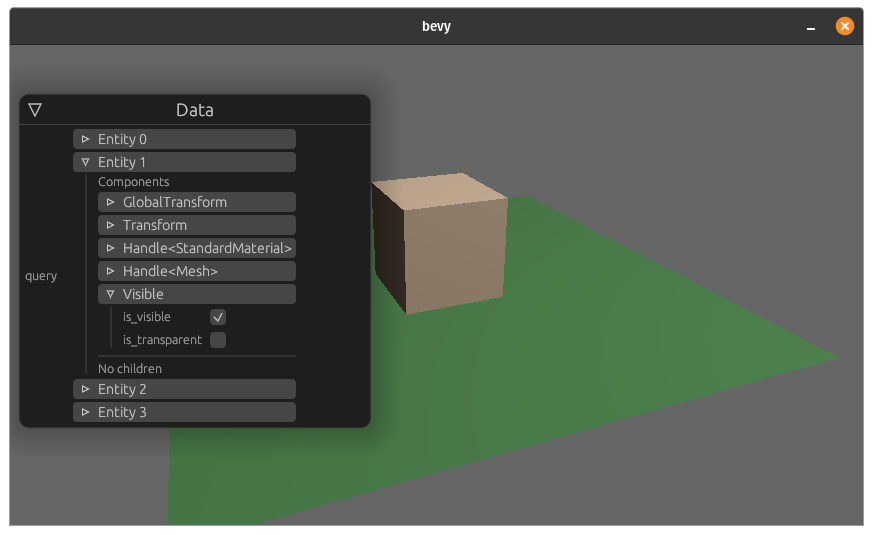
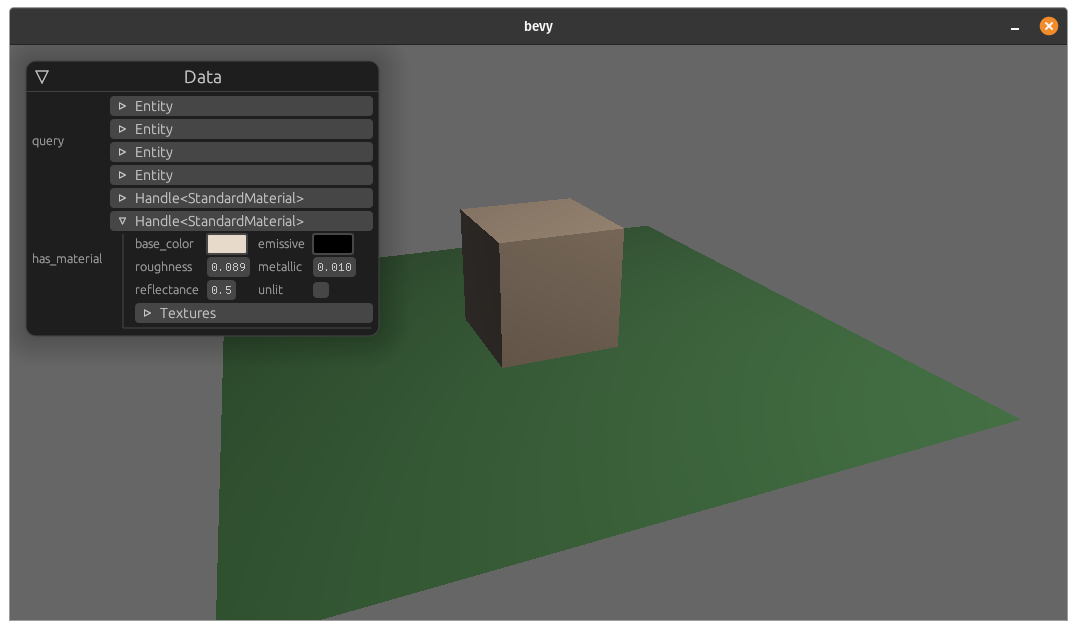
support arbitrary inspector queries

diff --git a/src/world_inspector/impls.rs b/src/world_inspector/impls.rs
@@ -1,12 +1,12 @@
 use super::{WorldInspectorParams, WorldUIContext};
-use crate::Inspectable;
+use crate::{utils, Inspectable};
 use bevy::{
-    ecs::query::{FilterFetch, WorldQuery},
+    ecs::query::{Fetch, FilterFetch, WorldQuery},
     prelude::*,
 };
 use bevy_egui::egui::CollapsingHeader;
-use pretty_type_name::pretty_type_name;
 use std::marker::PhantomData;
+use utils::error_label;
 
 impl Inspectable for World {
     type Attributes = WorldInspectorParams;
@@ -58,7 +58,11 @@ impl Inspectable for Entity {
     }
 }
 
-/// Queries for entities matching the filter `F` and displays their entity trees.
+/// Executes [Queries](bevy::ecs::system::Query) and displays the result.
+///
+/// You can use any types and filters which are allowed in regular bevy queries,
+/// however you may need to specify a `'static` lifetime since you can't elide them in structs.
+///
 /// ```rust,no_run
 /// use bevy::prelude::*;
 /// use bevy_inspector_egui::{Inspectable, InspectorPlugin};
@@ -68,8 +72,9 @@ impl Inspectable for Entity {
 ///
 /// #[derive(Inspectable, Default)]
 /// struct Queries {
-///   colliders: InspectorQuery<With<Collider>>,
-///   root_entities: InspectorQuery<Without<Parent>>,
+///   colliders: InspectorQuery<Entity, With<Collider>>,
+///   root_entities: InspectorQuery<Entity, Without<Parent>>,
+///   transforms: InspectorQuery<&'static mut Transform>,
 /// }
 ///
 /// fn main() {
@@ -79,9 +84,9 @@ impl Inspectable for Entity {
 ///         .run();
 /// }
 /// ```
-pub struct InspectorQuery<F>(PhantomData<F>);
+pub struct InspectorQuery<Q, F = ()>(PhantomData<(Q, F)>);
 
-impl<F> Default for InspectorQuery<F> {
+impl<Q, F> Default for InspectorQuery<Q, F> {
     fn default() -> Self {
         InspectorQuery(PhantomData)
     }
@@ -97,12 +102,15 @@ impl Default for InspectorQueryAttributes {
     }
 }
 
-impl<F> Inspectable for InspectorQuery<F>
+impl<'w, Q, F> Inspectable for InspectorQuery<Q, F>
 where
+    Q: WorldQuery,
     F: WorldQuery,
     F::Fetch: FilterFetch,
+    <<Q as WorldQuery>::Fetch as Fetch<'static>>::Item: Inspectable,
 {
-    type Attributes = InspectorQueryAttributes;
+    type Attributes =
+        <<<Q as WorldQuery>::Fetch as Fetch<'static>>::Item as Inspectable>::Attributes;
 
     fn ui(
         &mut self,
@@ -110,35 +118,25 @@ where
         options: Self::Attributes,
         context: &crate::Context,
     ) {
-        let world = expect_world!(ui, context, "InspectorQuery");
-        let mut params = world.get_resource_or_insert_with(WorldInspectorParams::default);
-        let params = std::mem::replace(&mut *params, WorldInspectorParams::empty());
+        let world = match context.world {
+            // Safety: the pointer provided in `Context::new` must be exclusive and valid.
+            Some(world) => unsafe { &mut *world },
+            None => {
+                return error_label(ui, format!("Query needs exclusive access to the world"));
+            }
+        };
 
-        let mut query_state = world.query_filtered::<Entity, F>();
-        let entities: Vec<Entity> = query_state.iter(world).collect();
+        ui.vertical(move |ui| {
+            let mut query_state = world.query_filtered::<Q, F>();
 
-        let ui_ctx = WorldUIContext::new(context.ui_ctx, world);
-        let entity_options = params.entity_options();
-
-        ui.vertical(|ui| {
-            if options.collapse {
-                let name = pretty_type_name::<F>();
+            for (i, mut value) in query_state.iter_mut(world).enumerate() {
+                let name = pretty_type_name::pretty_type_name::<Q>();
                 CollapsingHeader::new(name)
-                    .id_source(context.id())
+                    .id_source(context.id().with(i))
                     .show(ui, |ui| {
-                        for entity in entities {
-                            ui_ctx.entity_ui(ui, entity, &params, context.id(), &entity_options);
-                            ui.end_row();
-                        }
+                        value.ui(ui, options.clone(), &context.with_id(i as u64));
                     });
-            } else {
-                for entity in entities {
-                    ui_ctx.entity_ui(ui, entity, &params, context.id(), &entity_options);
-                }
             }
         });
-        drop(ui_ctx);
-
-        *world.get_resource_mut::<WorldInspectorParams>().unwrap() = params;
     }
 }

diff --git a/src/impls/list.rs b/src/impls/list.rs
@@ -62,17 +62,35 @@ impl<T: Inspectable, const N: usize> Inspectable for [T; N] {
 macro_rules! impl_for_tuple {
     ( $($ty:ident : $i:tt),* ) => {
         #[allow(unused_variables, non_snake_case)]
-        impl<$($ty: Inspectable),*> Inspectable for ($($ty,)*) {
+        impl<$($ty: Inspectable + 'static),*> Inspectable for ($($ty,)*) {
             type Attributes = ($(<$ty as Inspectable>::Attributes,)*);
 
             fn ui(&mut self, ui: &mut egui::Ui, options: Self::Attributes, context: &Context) {
-                ui.horizontal(|ui| {
+                #[allow(unused_mut)]
+                let mut inline = true;
+                $(inline &= should_display_inline::<$ty>();)*
+
+
+                if inline {
+                    ui.horizontal(|ui| {
+                        let ($($ty,)*) = options;
+                        ui.label("(");
+                        $(self.$i.ui(ui, $ty, &context.with_id($i));)*
+                        ui.label(")");
+                    });
+                } else {
                     let ($($ty,)*) = options;
 
-                    ui.label("(");
-                    $(self.$i.ui(ui, $ty, &context.with_id($i));)*
-                    ui.label(")");
-                });
+                    ui.vertical(|ui| {
+                        $(
+                            if $i != 0 {
+                                ui.separator();
+                            }
+                            self.$i.ui(ui, $ty, &context.with_id($i));
+                        )*
+                    });
+                }
+
             }
 
             fn setup(app: &mut AppBuilder) {
@@ -80,6 +98,21 @@ macro_rules! impl_for_tuple {
             }
         }
     };
+}
+
+macro_rules! matches_ty {
+    ($ty:ty, $($types:ty)|+) => {{
+        let type_id = std::any::TypeId::of::<$ty>();
+        $(
+            type_id == std::any::TypeId::of::<$types>()
+        )||*
+    }};
+}
+fn should_display_inline<T: 'static>() -> bool {
+    matches_ty!(
+        T,
+        i8 | i16 | i32 | i64 | isize | u8 | u16 | u32 | u64 | usize | char | bool | String | &'static str | f32 | f64 | &'static str
+    )
 }
 
 impl_for_tuple!();

diff --git a/src/world_inspector/mod.rs b/src/world_inspector/mod.rs
@@ -178,6 +178,7 @@ impl<'a> WorldUIContext<'a> {
             entity,
             entity_location,
             params,
+            id,
         );
         self.component_kind_ui(
             ui,
@@ -186,6 +187,7 @@ impl<'a> WorldUIContext<'a> {
             entity,
             entity_location,
             params,
+            id,
         );
 
         ui.separator();
@@ -215,6 +217,7 @@ impl<'a> WorldUIContext<'a> {
         entity: Entity,
         entity_location: EntityLocation,
         params: &WorldInspectorParams,
+        id: egui::Id,
     ) {
         if !components.is_empty() {
             ui.label(title);
@@ -227,7 +230,15 @@ impl<'a> WorldUIContext<'a> {
             let iter = sort_iter_if(iter, params.sort_components, |a, b| a.0.cmp(&b.0));
 
             for (name, component_info) in iter {
-                self.component_ui(ui, name, entity, entity_location, component_info, params);
+                self.component_ui(
+                    ui,
+                    name,
+                    entity,
+                    entity_location,
+                    component_info,
+                    params,
+                    id,
+                );
             }
         }
     }
@@ -240,6 +251,7 @@ impl<'a> WorldUIContext<'a> {
         entity_location: EntityLocation,
         component_info: &ComponentInfo,
         params: &WorldInspectorParams,
+        id: egui::Id,
     ) {
         let type_id = match component_info.type_id() {
             Some(id) => id,
@@ -258,7 +270,7 @@ impl<'a> WorldUIContext<'a> {
         let type_registry = &*type_registry.internal.read();
 
         CollapsingHeader::new(name)
-            .id_source(component_info.id())
+            .id_source(id.with(component_info.id()))
             .show(ui, |ui| {
                 if params.is_read_only(type_id) {
                     ui.set_enabled(false);

diff --git a/src/impls/bevy_impls.rs b/src/impls/bevy_impls.rs
@@ -351,3 +351,19 @@ impl Inspectable for Mesh {
         });
     }
 }
+
+impl Inspectable for Name {
+    type Attributes = ();
+
+    fn ui(&mut self, ui: &mut egui::Ui, _: Self::Attributes, _: &Context) {
+        ui.label(self.as_str());
+    }
+}
+
+impl<'a, T: Inspectable> Inspectable for Mut<'a, T> {
+    type Attributes = T::Attributes;
+
+    fn ui(&mut self, ui: &mut egui::Ui, options: Self::Attributes, context: &Context) {
+        (**self).ui(ui, options, context)
+    }
+}

diff --git a/examples/inspector_query.rs b/examples/inspector_query.rs
@@ -3,7 +3,8 @@ use bevy_inspector_egui::{widgets::InspectorQuery, Inspectable, InspectorPlugin}
 
 #[derive(Inspectable, Default)]
 struct Data {
-    query: InspectorQuery<With<Transform>>,
+    query: InspectorQuery<Entity, With<Transform>>,
+    has_material: InspectorQuery<&'static mut Handle<StandardMaterial>>,
 }
 
 fn main() {
